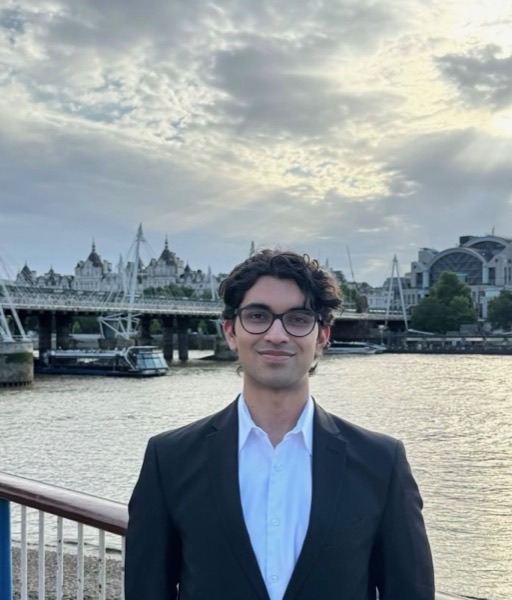
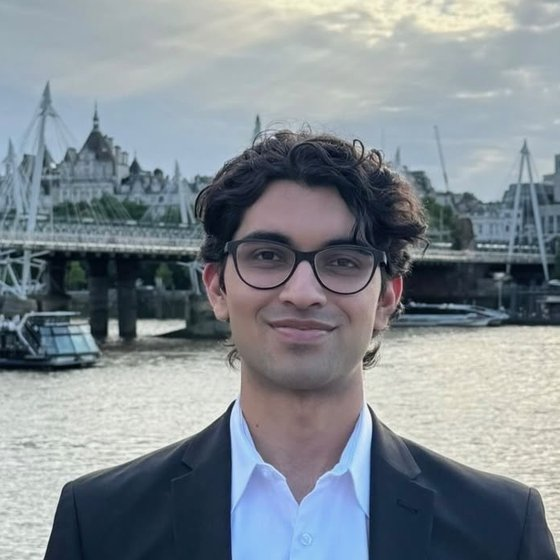
Re-crop and re-style headshot: rounded square, properly framed
Replaced the CSS-cropped circle (which force-cropped the full
environmental shot into a tiny 140px circle) with a real face-and-
shoulders crop made from the source image, shown larger (200px) in a
rounded square matching the site's existing visual language, instead
of a generic social-avatar circle.

diff --git a/styles.css b/styles.css
@@ -159,9 +159,12 @@ nav.links a[aria-current="page"] {
 .about-hero { display: flex; align-items: center; gap: 28px; flex-wrap: wrap; }
 .about-hero h1 { margin-bottom: 0; }
 .headshot {
-  width: 140px; height: 140px; border-radius: 50%; object-fit: cover; object-position: center 30%;
-  border: 3px solid var(--surface); box-shadow: 0 0 0 1px var(--line), 0 8px 24px rgba(0,0,0,0.12);
+  width: 200px; height: 200px; border-radius: 22px; object-fit: cover;
+  box-shadow: 0 0 0 1px var(--line), 0 12px 32px rgba(0,0,0,0.16);
   flex-shrink: 0;
+}
+@media (max-width: 560px) {
+  .headshot { width: 150px; height: 150px; }
 }
 .eyebrow {
   font-family: var(--font-body); font-size: 13px; font-weight: 600; letter-spacing: 0.08em;

diff --git a/about.html b/about.html
@@ -26,7 +26,7 @@
 
 <main>
   <div class="wrap-narrow hero about-hero">
-    <img src="media/headshot.jpg" alt="Sheersh Kachhwaha" class="headshot" width="140" height="140">
+    <img src="media/headshot.jpg" alt="Sheersh Kachhwaha" class="headshot" width="200" height="200">
     <div>
       <p class="eyebrow">About</p>
       <h1 style="max-width:none;">Sheersh Kachhwaha</h1>
